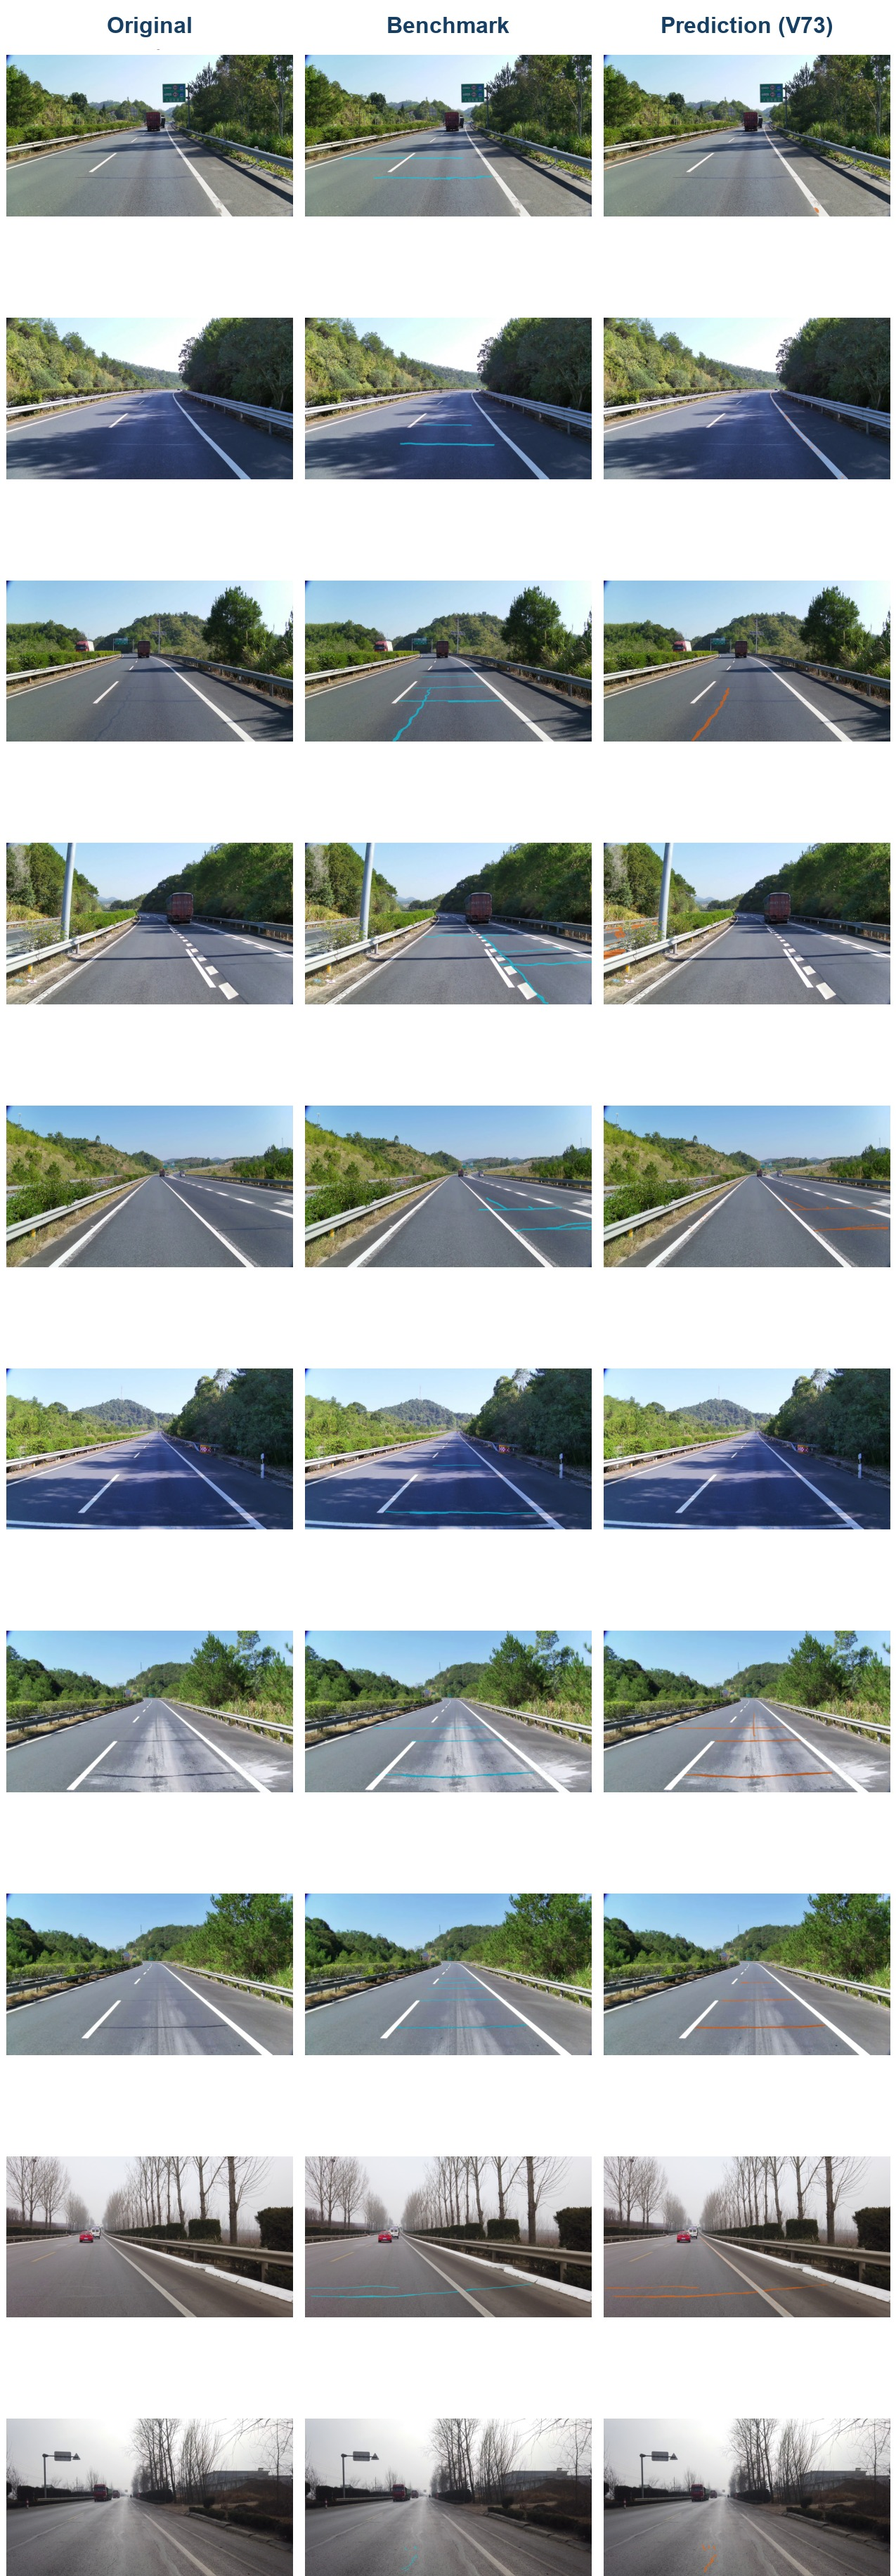
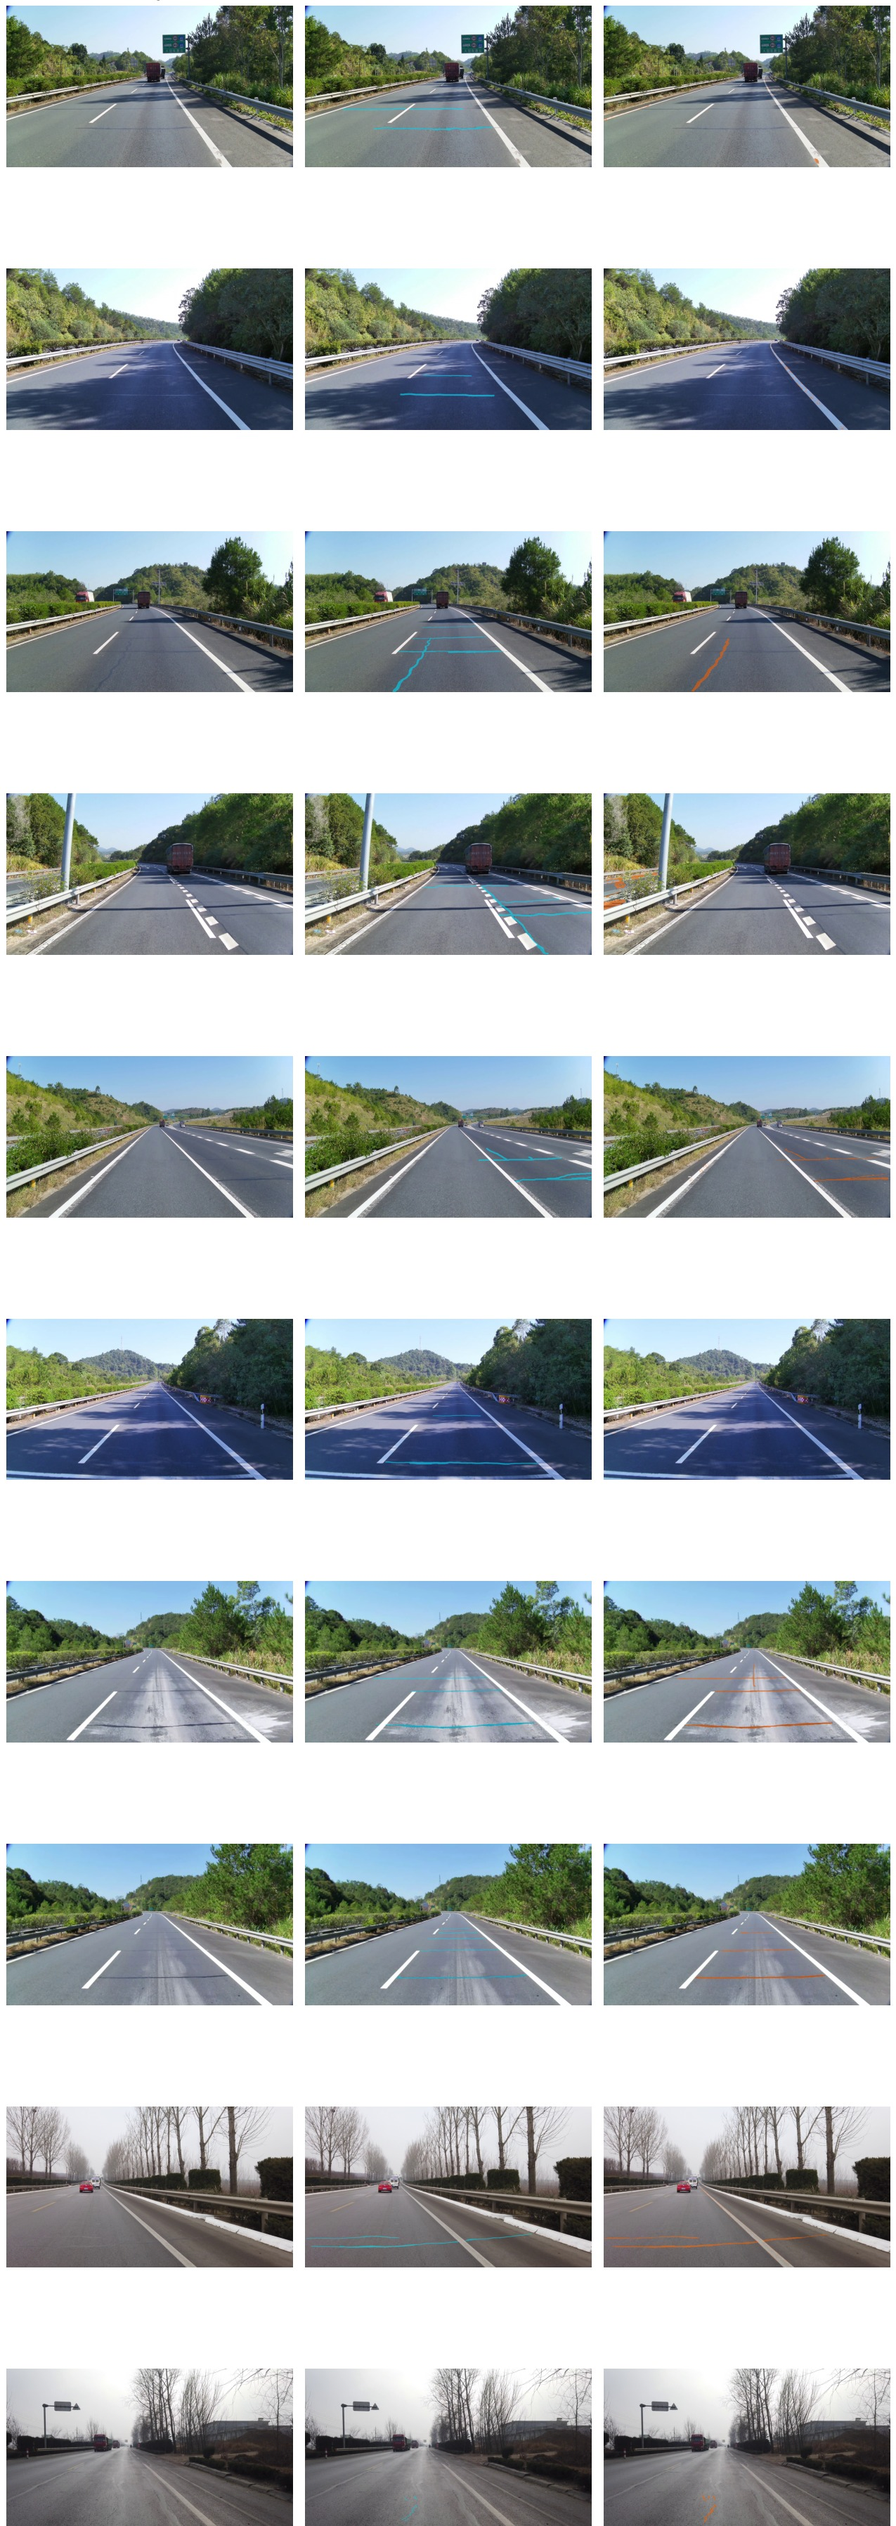
link example columns to dataset sources

diff --git a/examples.html b/examples.html
@@ -12,34 +12,52 @@
     h1 { margin:0; color:#173f63; font-size:28px; }
     a { color:#075f96; font-weight:700; text-decoration:none; white-space:nowrap; }
     a:hover { text-decoration:underline; }
-    img { display:block; width:100%; height:auto; background:#fff; border:1px solid #cbd8e2; border-radius:8px; }
-    @media (max-width:700px) { main{padding:12px 8px} h1{font-size:20px} .top{align-items:flex-start} }
+    .columns { display:grid; grid-template-columns:repeat(3,minmax(0,1fr)); align-items:center; background:#fff; border:1px solid #cbd8e2; border-bottom:0; border-radius:8px 8px 0 0; padding:13px 0 11px; }
+    .columns a, .columns span { text-align:center; color:#173f63; font-size:22px; font-weight:700; }
+    .columns a { text-decoration:underline; text-decoration-thickness:1px; text-underline-offset:4px; }
+    img { display:block; width:100%; height:auto; background:#fff; border:1px solid #cbd8e2; border-top:0; border-radius:0 0 8px 8px; }
+    @media (max-width:700px) { main{padding:12px 8px} h1{font-size:20px} .top{align-items:flex-start} .columns a,.columns span{font-size:15px} }
   </style>
 </head>
 <body>
 <main>
   <div class="top"><h1 id="title">Prediction Examples</h1><a href="pavement_crack_dataset_benchmark.html">Back to summary</a></div>
+  <div class="columns">
+    <a id="originalLink" target="_blank" rel="noopener">Original &#8599;</a>
+    <a id="benchmarkLink" target="_blank" rel="noopener">Benchmark &#8599;</a>
+    <span id="predictionLabel">Prediction</span>
+  </div>
   <img id="figure" alt="Original images, benchmark labels, and predictions">
 </main>
 <script>
 const datasets = {
-  crack500: ['Crack500', 'assets/crack500_examples_10.jpg'],
-  pavebench: ['PaveBench', 'assets/pavebench_examples_10.jpg'],
-  cfd: ['CFD', 'assets/cfd_examples_10.jpg'],
-  gaps384: ['GAPs384', 'assets/gaps384_examples_10.jpg'],
-  crackls315: ['CrackLS315', 'assets/crackls315_examples_10.jpg'],
-  crkwh100: ['CRKWH100', 'assets/crkwh100_examples_10.jpg'],
-  crackseg354: ['CrackSeg', 'assets/crackseg354_examples_10.jpg'],
-  pavecrack1300: ['PaveCrack1300', 'assets/pavecrack1300_examples_10.jpg'],
-  sut_crack: ['SUT-Crack', 'assets/sut_crack_examples_10.jpg'],
-  nha12d: ['NHA12D', 'assets/nha12d_examples_10.jpg'],
-  deepcrack237: ['DeepCrack237', 'assets/deepcrack237_examples_10.jpg']
+  crack500: {name:'Crack500', image:'assets/crack500_examples_10.jpg', original:'https://github.com/fyangneil/pavement-crack-detection', benchmark:'https://github.com/fyangneil/pavement-crack-detection', version:'V60'},
+  pavebench: {name:'PaveBench', image:'assets/pavebench_examples_10.jpg', original:'https://huggingface.co/datasets/MML-Group/PaveBench', benchmark:'https://huggingface.co/datasets/MML-Group/PaveBench', version:'V60'},
+  cfd: {name:'CFD', image:'assets/cfd_examples_10.jpg', original:'https://github.com/cuilimeng/CrackForest-dataset', benchmark:'https://github.com/cuilimeng/CrackForest-dataset', version:'V60'},
+  gaps384: {name:'GAPs384', image:'assets/gaps384_examples_10.jpg', original:'https://www.tu-ilmenau.de/universitaet/fakultaeten/fakultaet-informatik-und-automatisierung/profil/institute-und-fachgebiete/institut-fuer-technische-informatik-und-ingenieurinformatik/fachgebiet-neuroinformatik-und-kognitive-robotik/data-sets-code/german-asphalt-pavement-distress-dataset-gaps', benchmark:'https://github.com/fyangneil/pavement-crack-detection', version:'V60'},
+  crackls315: {name:'CrackLS315', image:'assets/crackls315_examples_10.jpg', original:'https://github.com/qinnzou/DeepCrack', benchmark:'https://github.com/qinnzou/DeepCrack', version:'V60'},
+  crkwh100: {name:'CRKWH100', image:'assets/crkwh100_examples_10.jpg', original:'https://1drv.ms/f/s!AittnGm6vRKLtylBkxVXw5arGn6R', benchmark:'https://1drv.ms/f/s!AittnGm6vRKLglyfiCw_C6BDeFsP', version:'V60'},
+  crackseg354: {name:'CrackSeg', image:'assets/crackseg354_examples_10.jpg', original:'https://github.com/TRMetaGroup/CrackSeg', benchmark:'https://github.com/TRMetaGroup/CrackSeg', version:'V73'},
+  pavecrack1300: {name:'PaveCrack1300', image:'assets/pavecrack1300_examples_10.jpg', original:'https://data.mendeley.com/datasets/8b27pdcxv7/1', benchmark:'https://data.mendeley.com/datasets/8b27pdcxv7/1', version:'V60'},
+  sut_crack: {name:'SUT-Crack', image:'assets/sut_crack_examples_10.jpg', original:'https://data.mendeley.com/datasets/gsbmknrhkv/5', benchmark:'https://data.mendeley.com/datasets/gsbmknrhkv/5', version:'V60'},
+  nha12d: {name:'NHA12D', image:'assets/nha12d_examples_10.jpg', original:'https://github.com/ZheningHuang/NHA12D-Crack-Detection-Dataset-and-Comparison-Study', benchmark:'https://github.com/ZheningHuang/NHA12D-Crack-Detection-Dataset-and-Comparison-Study', version:'V60'},
+  deepcrack237: {name:'DeepCrack237', image:'assets/deepcrack237_examples_10.jpg', original:'https://github.com/yhlleo/DeepCrack', benchmark:'https://github.com/yhlleo/DeepCrack', version:'V60'}
 };
 const key = new URLSearchParams(location.search).get('dataset');
 const item = datasets[key] || datasets.pavebench;
-document.title = item[0] + ' Prediction Examples';
-document.getElementById('title').textContent = item[0] + ' — Prediction Examples';
-document.getElementById('figure').src = item[1];
+document.title = item.name + ' Prediction Examples';
+document.getElementById('title').textContent = item.name + ' — Prediction Examples';
+document.getElementById('figure').src = item.image;
+document.getElementById('predictionLabel').textContent = 'Prediction (' + item.version + ')';
+for (const [id, url, label] of [
+  ['originalLink', item.original, item.name + ' original-image source'],
+  ['benchmarkLink', item.benchmark, item.name + ' benchmark-label source']
+]) {
+  const link = document.getElementById(id);
+  link.href = url;
+  link.title = label;
+  link.setAttribute('aria-label', label + ' (opens in a new tab)');
+}
 </script>
 </body>
 </html>
